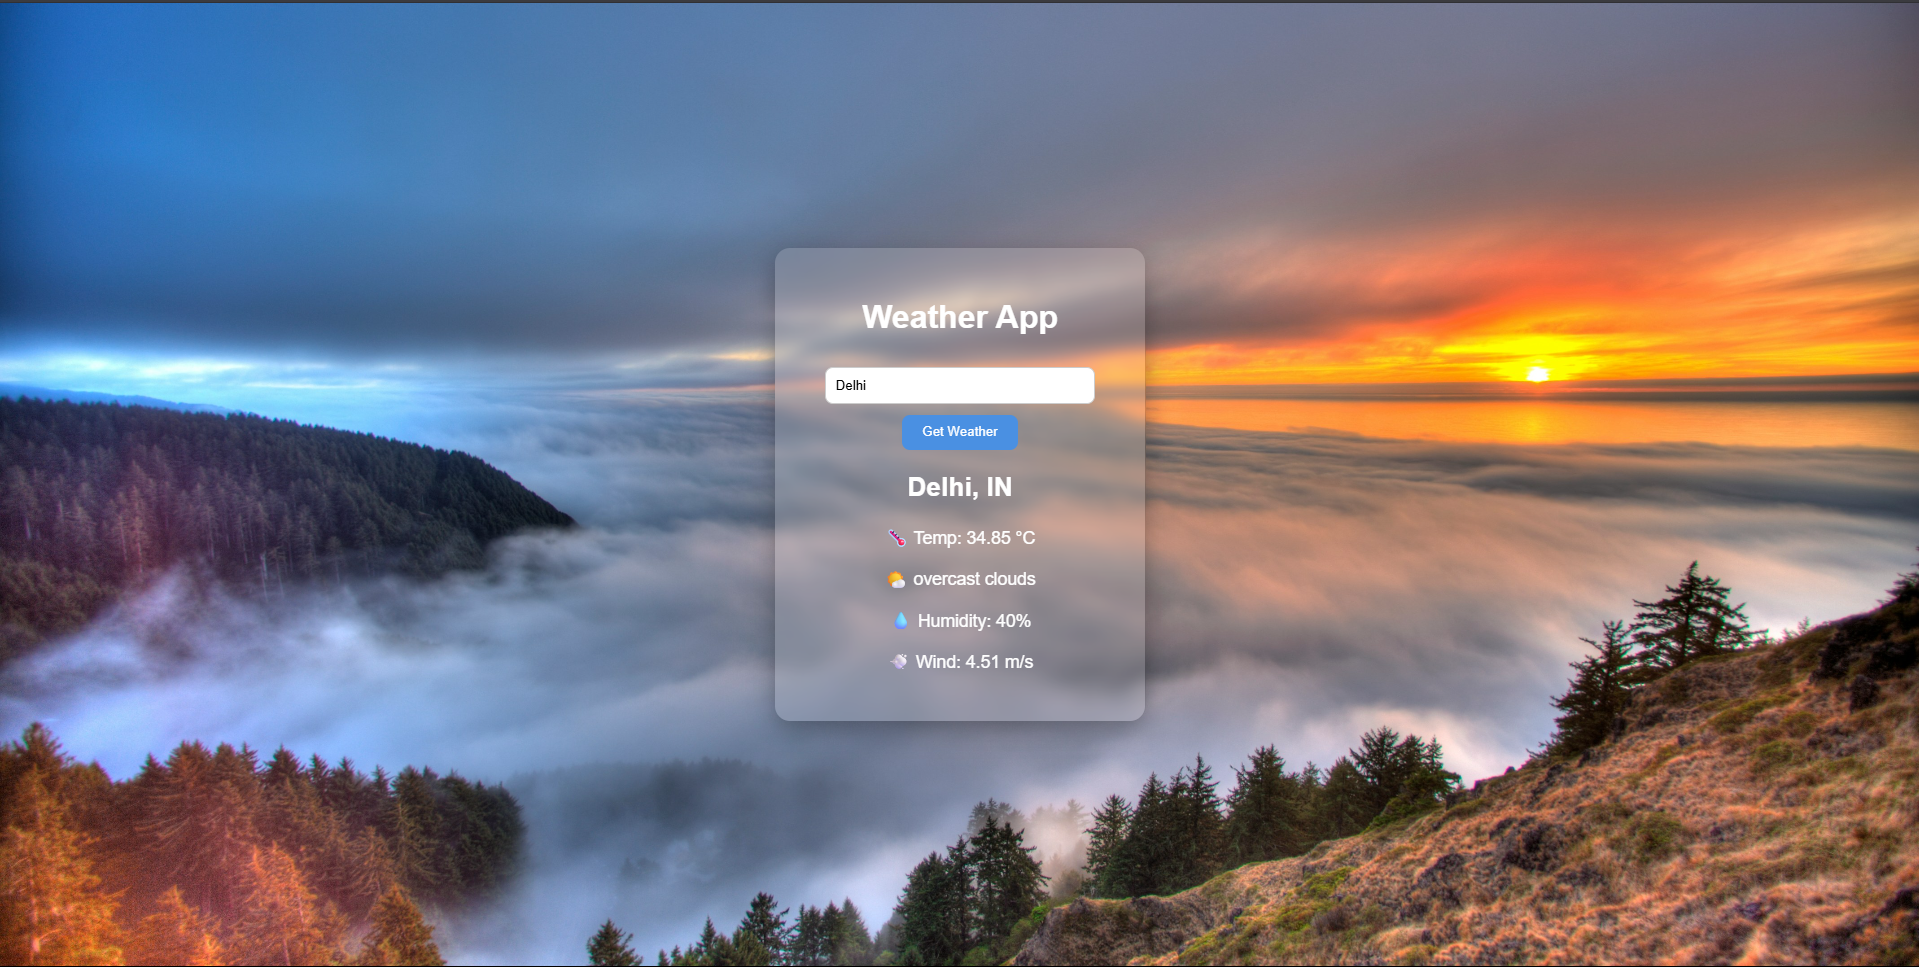
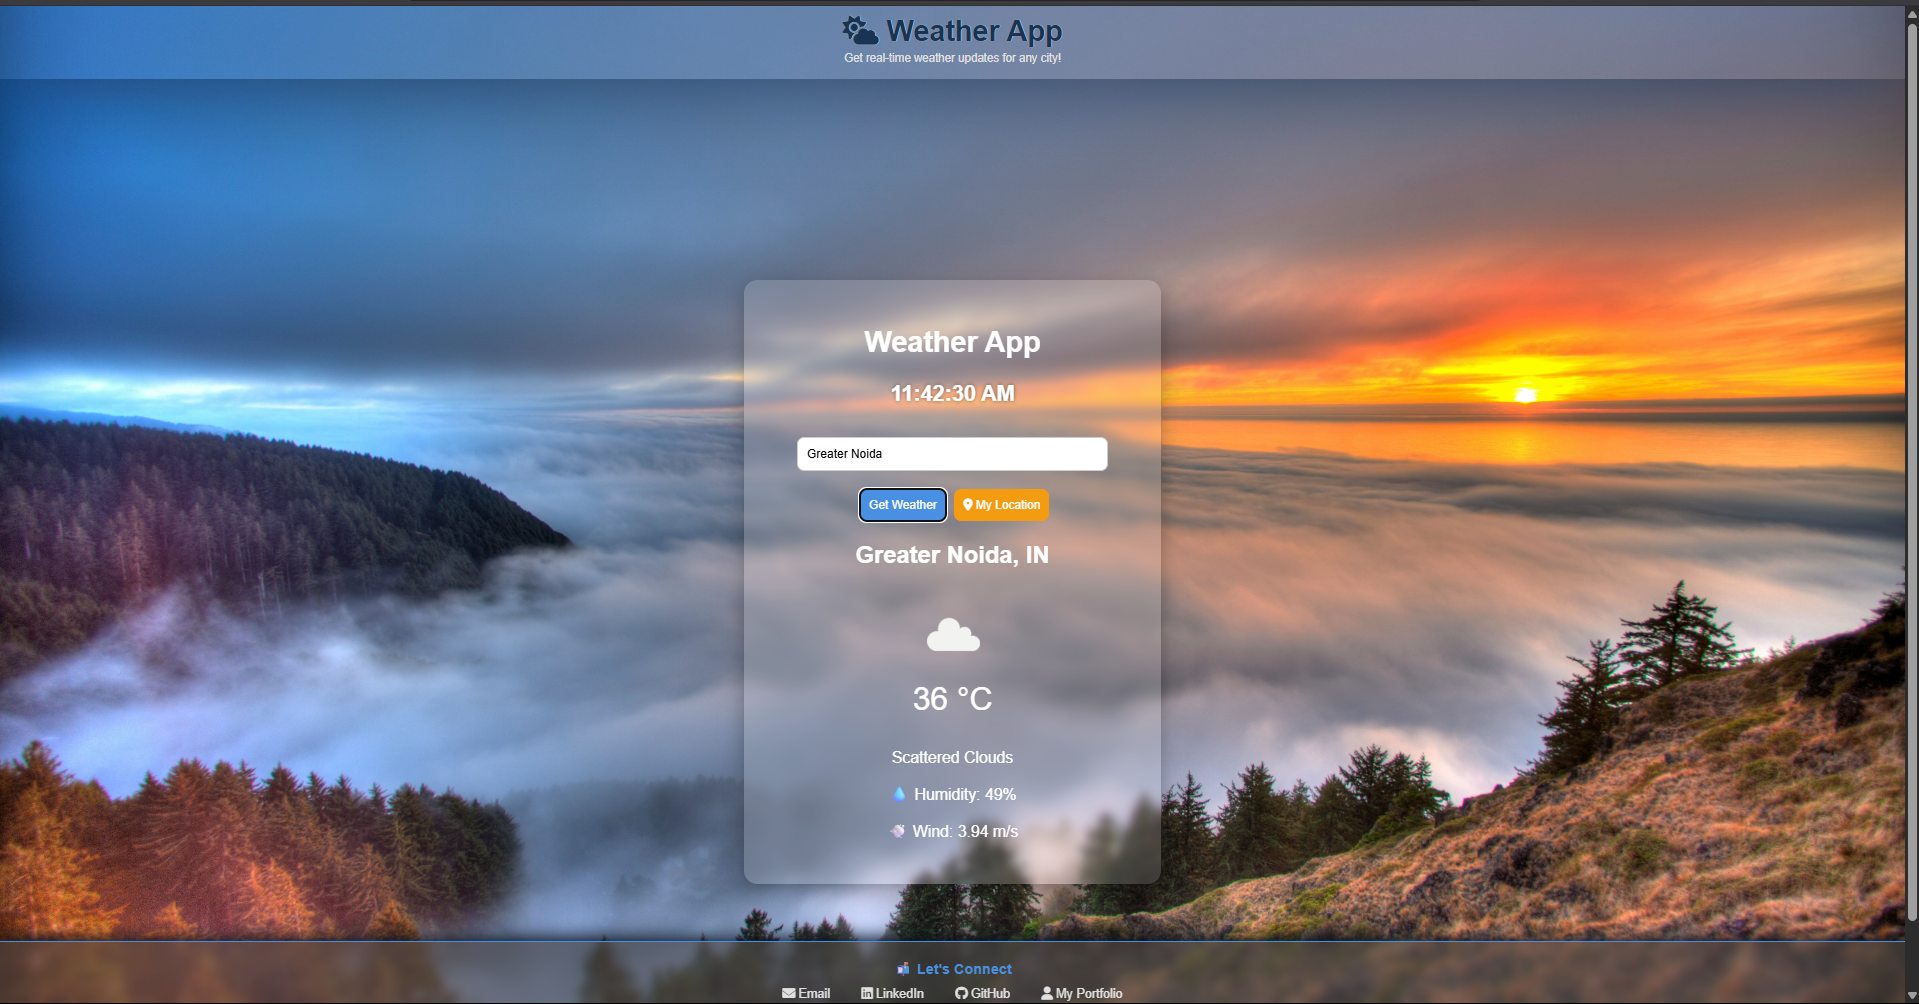
Updated Read Me

diff --git a/README.md b/README.md
@@ -20,9 +20,12 @@ A clean and responsive weather app built using **HTML**, **CSS**, and **JavaScri
 
 - 🔍 Search for current weather by city name
 - 📡 Real-time data using OpenWeatherMap API
+- 📍 Get weather based on current location using Geolocation API
 - 🎨 Dynamic container background based on weather (e.g., Clear, Rain, Clouds)
 - 📱 Fully responsive design
+- ⏰ Live real-time digital clock
 - 🖼 Full-screen background image without cropping
+- 🔗 Footer with external links (LinkedIn, GitHub, Portfolio)
 
 ---
 
